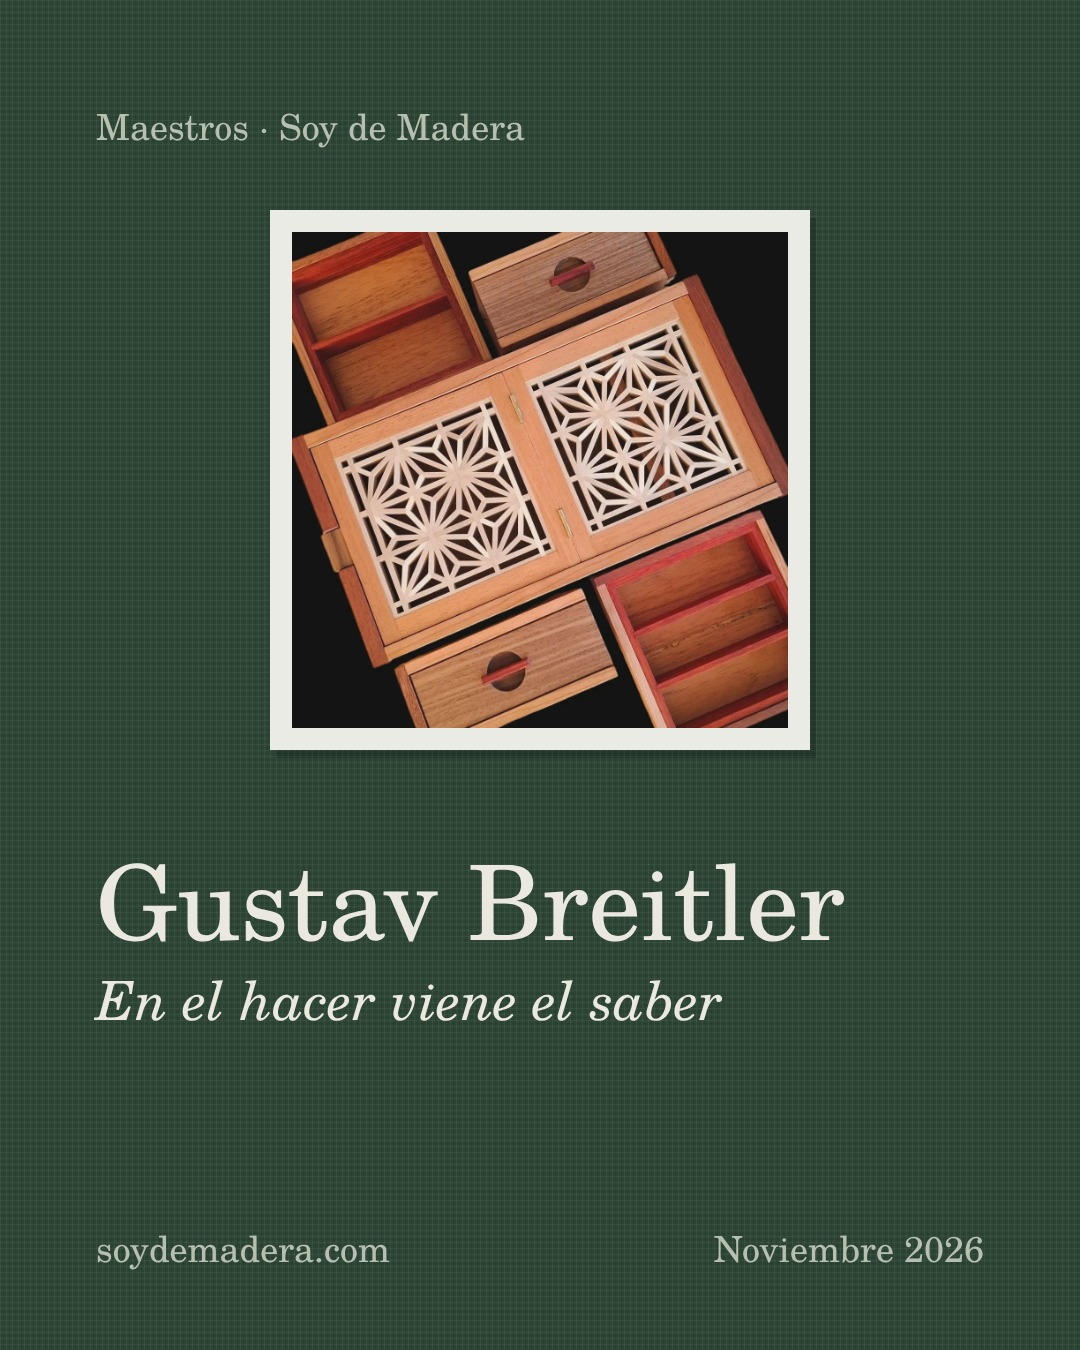
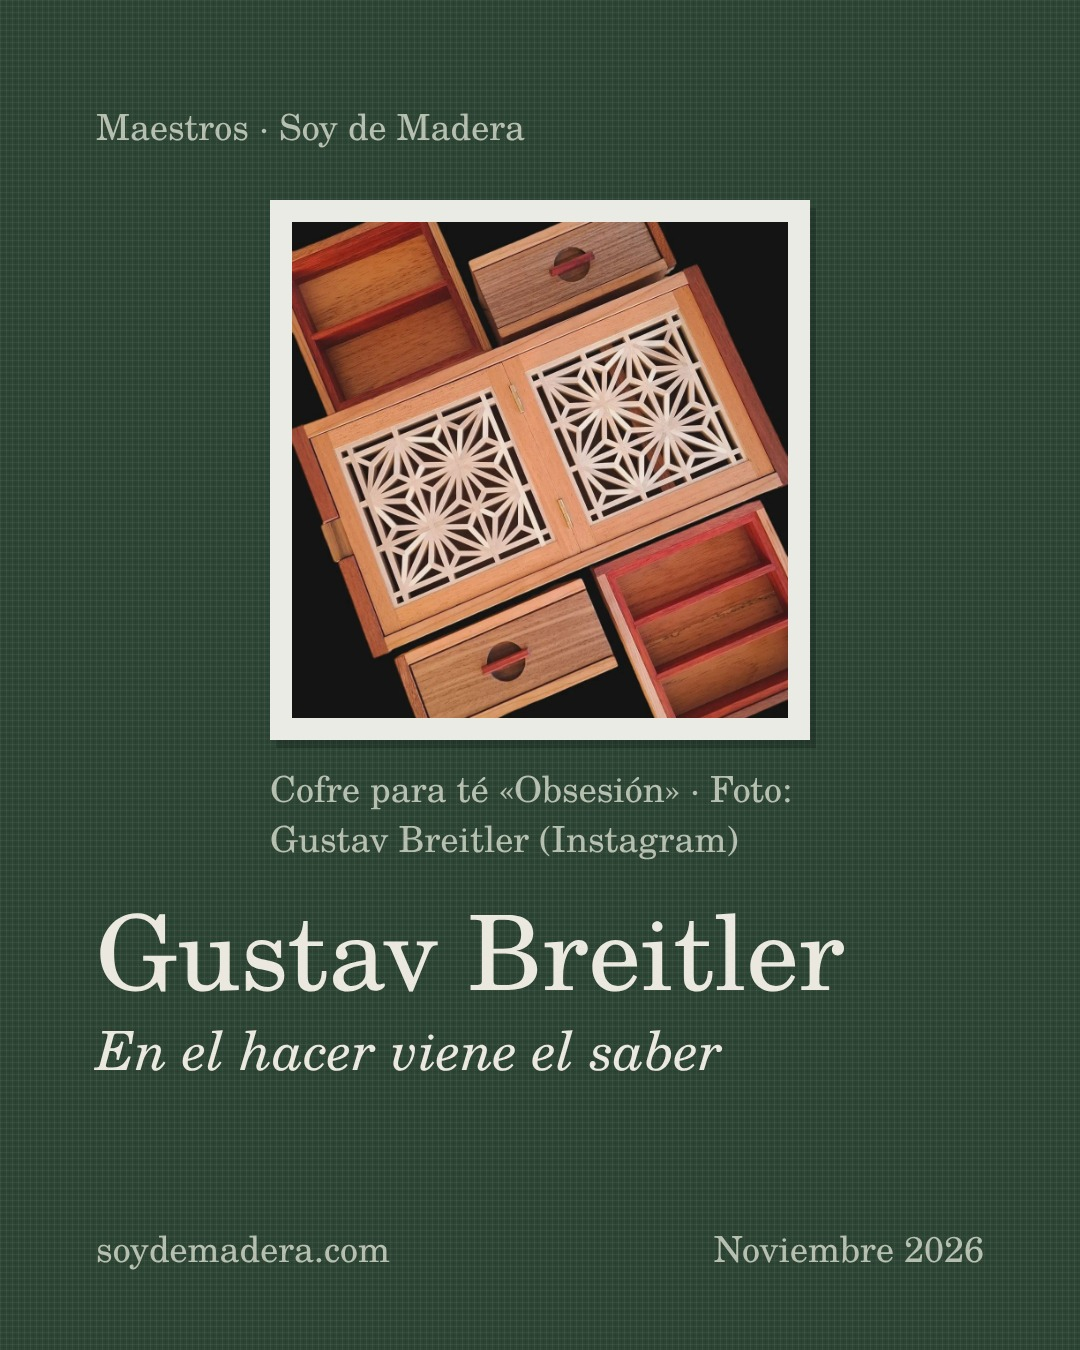
Carrusel de Gustav Breitler: cinco láminas (portada, colas de milano, tradición japonesa, juego, cierre) y crédito en la portada
Claude-Session: https://claude.ai/code/session_012RZ1FT6M2ATF6VWer3zUHn

Changed region(s): [[0.0917, 0.1244, 0.7944, 0.8089]]

diff --git a/carrusel-gustav/index.html b/carrusel-gustav/index.html
@@ -22,21 +22,36 @@
 const { M, W, HUESO, SUAVE } = SDM;
 const MES = 'Noviembre 2026';
 const laminas = [
-  // Portada
+  // 1. Portada
   async c => { SDM.fondo(c); SDM.cabecera(c, 'Maestros · Soy de Madera');
     const img = await SDM.cargarImagen('../img/gustav-breitler-cofre-obsesion.jpg');
-    SDM.lamina(c, img, 270, 210, 540, 540);
-    SDM.texto(c, 'Gustav Breitler', M, 940, 104, HUESO);
-    SDM.texto(c, 'En el hacer viene el saber', M, 1020, 54, HUESO, 'italic');
+    SDM.lamina(c, img, 270, 200, 540, 540);
+    SDM.parrafo(c, 'Cofre para té «Obsesión» · Foto: Gustav Breitler (Instagram)', 270, 802, 540, 36, SUAVE);
+    SDM.texto(c, 'Gustav Breitler', M, 990, 104, HUESO);
+    SDM.texto(c, 'En el hacer viene el saber', M, 1070, 54, HUESO, 'italic');
     SDM.pie(c, MES); },
-  // Cita con foto
-  async c => { SDM.fondo(c);
+  // 2. Probar lo que no atrae
+  async c => { SDM.fondo(c); SDM.cabecera(c, 'Lo que no le gustaba');
+    const img = await SDM.cargarImagen('../img/gustav-breitler-cajonera-marqueteria.jpg');
+    SDM.lamina(c, img, 270, 190, 540, 540);
+    SDM.parrafo(c, 'Su primera pieza con marquetería, en sicómoro · Foto: Gustav Breitler (Instagram)', M, 792, W - 2 * M, 36, SUAVE);
+    const y = SDM.parrafo(c, '«Muchas veces lo que me lleva a probar cosas nuevas es el aliento y el apoyo, más que la curiosidad: ese dejar de dudar de uno mismo.»', M, 940, W - 2 * M, 48, HUESO);
+    SDM.texto(c, 'Sobre las colas de milano y la marquetería', M, y + 80, 36, SUAVE); },
+  // 3. Japón
+  async c => { SDM.fondo(c); SDM.cabecera(c, 'La tradición japonesa');
     const img = await SDM.cargarImagen('../img/gustav-breitler-cajas-kasane-rindo.jpg');
-    SDM.lamina(c, img, 300, 150, 480, 600);
-    const y = SDM.parrafo(c, '«Lo que más me aportó es la constancia y la serenidad que hay al trabajar de esa manera, en silencio y netamente con herramientas manuales.»', M, 870, W - 2 * M, 48, HUESO);
-    SDM.texto(c, 'Gustav Breitler, sobre la tradición japonesa', M, y + 80, 36, SUAVE);
-    SDM.parrafo(c, 'Cajitas con el patrón «Kasane Rindo». Cuadro de un video de Instagram de Gustav Breitler', M, 1232, W - 2 * M, 36, SUAVE); },
-  // Cierre
+    SDM.lamina(c, img, 330, 180, 420, 525);
+    SDM.parrafo(c, 'Cajitas con el patrón «Kasane Rindo» · Cuadro de un video de Gustav Breitler (Instagram)', M, 767, W - 2 * M, 36, SUAVE);
+    const y = SDM.parrafo(c, '«Lo que más me aportó es la constancia y la serenidad que hay al trabajar de esa manera, en silencio y netamente con herramientas manuales.»', M, 915, W - 2 * M, 48, HUESO);
+    SDM.texto(c, 'Sobre el kumiko y los ensambles japoneses', M, y + 80, 36, SUAVE); },
+  // 4. Juego
+  async c => { SDM.fondo(c); SDM.cabecera(c, 'Objetos que invitan a jugar');
+    const img = await SDM.cargarImagen('../img/gustav-breitler-caja-piure.jpg');
+    SDM.lamina(c, img, 270, 190, 540, 540);
+    SDM.parrafo(c, 'Caja de corte «Piure», en cerezo, maple y cedro · Foto: Gustav Breitler (Instagram)', M, 792, W - 2 * M, 36, SUAVE);
+    const y = SDM.parrafo(c, '«Lo lúdico de los objetos lo plasmo, por ejemplo, al dejar los ensambles pasantes, que de primera impresión llaman a querer tocar el objeto.»', M, 940, W - 2 * M, 48, HUESO);
+    SDM.texto(c, 'Sobre la precisión y el juego', M, y + 80, 36, SUAVE); },
+  // 5. Cierre
   c => { SDM.fondo(c);
     const y = SDM.parrafo(c, 'La entrevista completa, en la sección Maestros de soydemadera.com', M, 300, W - 2 * M, 64, HUESO);
     c.fillStyle = 'rgba(183,191,176,.45)'; c.fillRect(M, y + 70, W - 2 * M, 2);
